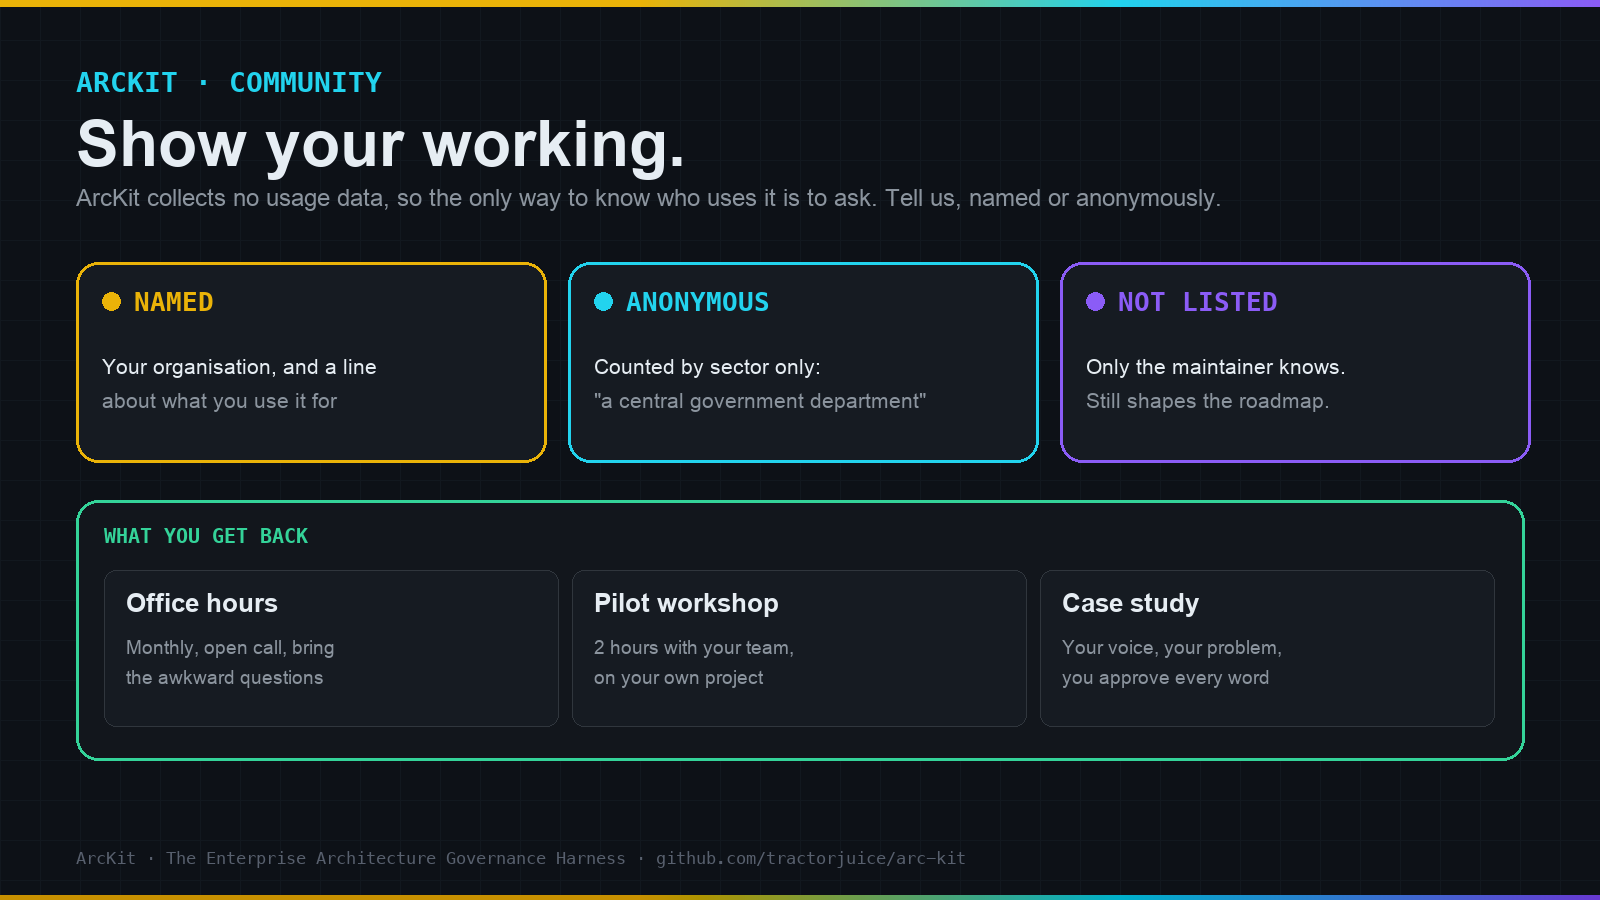
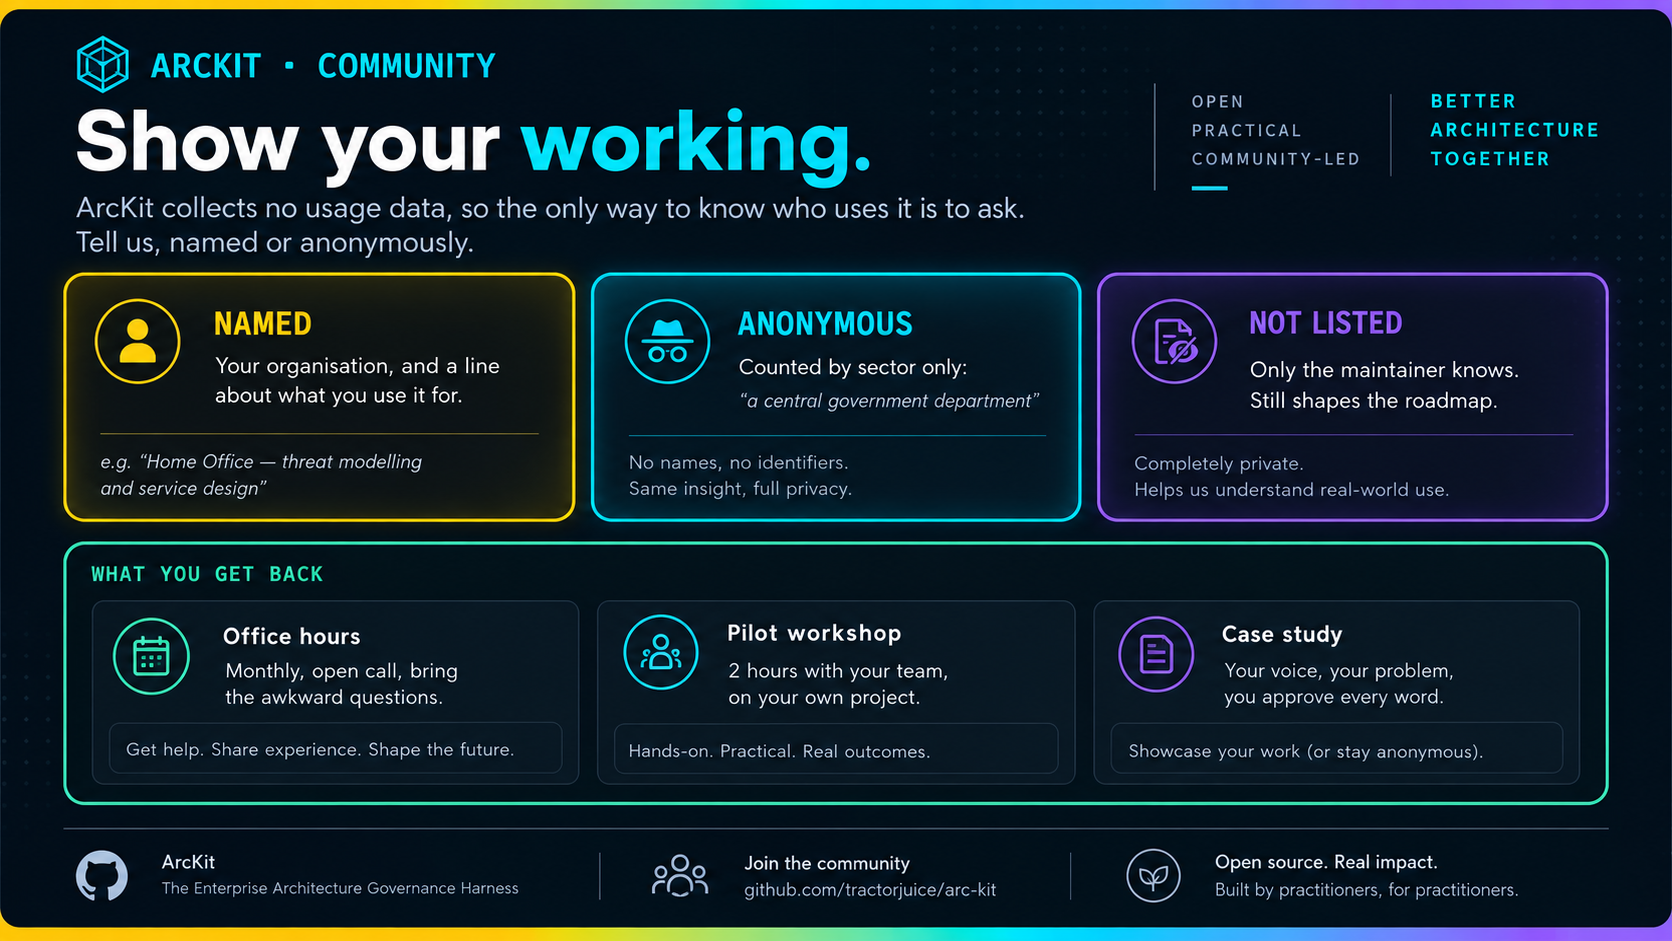
docs: replace the Show Your Working hero with the edited version (#860)
Swaps in the maintainer's redesigned hero image and notes in the
generator that the published image is hand-edited.

Claude-Session: https://claude.ai/code/session_01UfA5PgLans7gXnHJfYC2b7

diff --git a/docs/articles/generate-hero-show-your-working.py b/docs/articles/generate-hero-show-your-working.py
@@ -4,6 +4,9 @@ An adopters board with three listing options (named, anonymous, not listed)
 and the three things adopters get back. Same house style as the sibling
 generate-hero-*.py scripts.
 
+The published hero was replaced by a hand-edited version on 23 September
+2026; running this regenerates the original, not the published image.
+
     uv run --with pillow python docs/articles/generate-hero-show-your-working.py
 """
 
